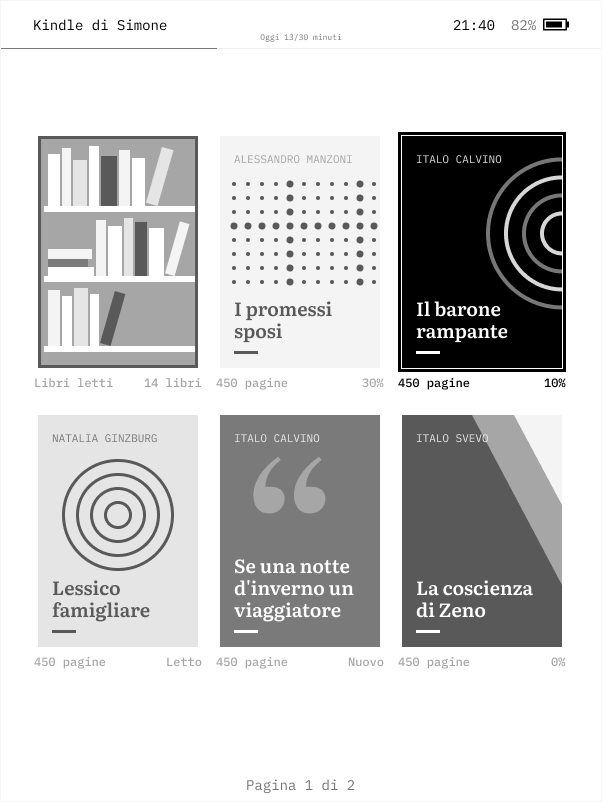
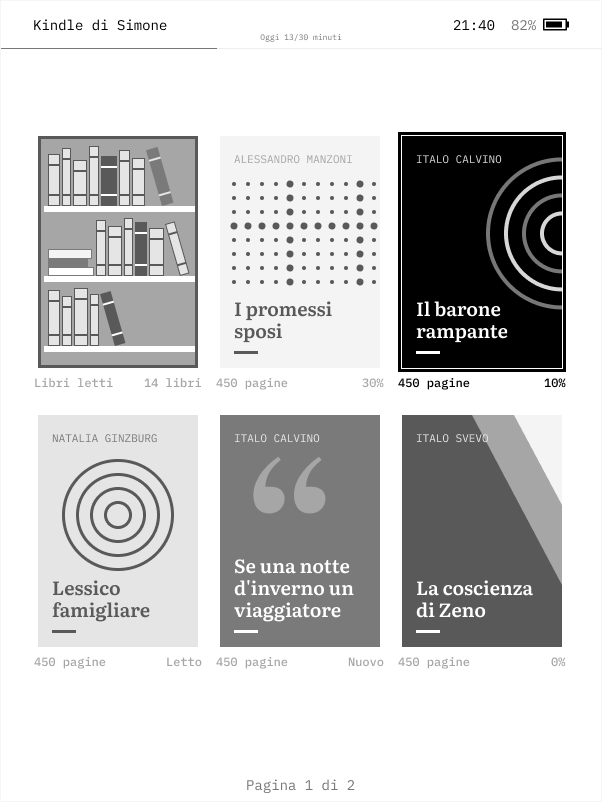
Tilt leaning books left and use bound spines
Claude-Session: https://claude.ai/code/session_017ad5J3QvE7Jna11hQjBPhw

Changed region(s): [[0.0598, 0.187, 0.3289, 0.4364]]

diff --git a/diario/2026-11-16-home-landing.md b/diario/2026-11-16-home-landing.md
@@ -1,6 +1,6 @@
 # 2026-11-16 · Home di partenza e Archivio grande come un libro
 
-**Durata:** circa 12 minuti (12:44–12:52 UTC, più 4 minuti alle 12:50 per le due mensole e 8 minuti alle 12:55 per lo scaffale a tre ripiani).
+**Durata:** circa 12 minuti (12:44–12:52 UTC, più 4 minuti alle 12:50 per le due mensole e 8 minuti alle 12:55 per lo scaffale a tre ripiani, 5 minuti alle 12:59 per libri obliqui e rilegature).
 **Risultato:** la libreria a copertine di Simone diventa la schermata di partenza
 (*00 · Home (landing)* nel file Figma [Carbonella](https://www.figma.com/design/TD5USYE5DwkvWALoR821lL)),
 con l'Archivio come prima card della griglia.
@@ -61,14 +61,28 @@ livelli, libri più grandi anche messi obliqui, genereremo random".
 |---|---|
 | ![](img/2026-11-16-archivio-card.png) | ![](img/2026-11-16-ripiani.png) |
 
+### Correzione: obliqui verso sinistra e rilegature
+
+Simone: "in obliquo verso sinistra, altrimenti poggiano nel nulla, usa anche libri con rilegatura".
+Nella versione precedente i libri inclinati pendevano a destra, verso il vuoto. Ora la cima si appoggia
+al libro accanto a sinistra. Tutti i dorsi sono istanze del componente `Dorso` (con le fasce della
+rilegatura in alto e in basso, la fascia bassa resta attaccata al fondo quando il libro cambia altezza);
+i libri sdraiati hanno un filo scuro attorno. I dorsi grigio medio sparivano sul fondo dello stesso grigio:
+li ho fatti chiari o grafite.
+
+| Prima (obliqui a destra) | Segnalazione di Simone |
+|---|---|
+| ![](img/2026-11-16-archivio-card-obliqui-destra.png) | ![](img/2026-11-16-ripiano-feedback-simone.png) |
+
 Versione precedente a due mensole:
 
 ![](img/2026-11-16-archivio-card-due-mensole.png)
 
 ## Intoppi
 
-- Con la rotazione dei libri inclinati mi sono confuso sul verso (in Figma l'angolo positivo gira in
-  senso antiorario): li ho posizionati misurando il riquadro reale dopo la rotazione.
+- Con la rotazione dei libri inclinati mi sono confuso sul verso e la prima consegna li aveva a destra;
+  l'ha notato Simone. Lezione: controllare sullo screenshot dove sta la cima del libro, non fidarsi del
+  segno dell'angolo.
 - Nella prima versione c'era un nono dorso inclinato appoggiato agli altri: con la rotazione si
   sovrapponeva al libro accanto e sembrava un errore. L'ho tolto.
 
